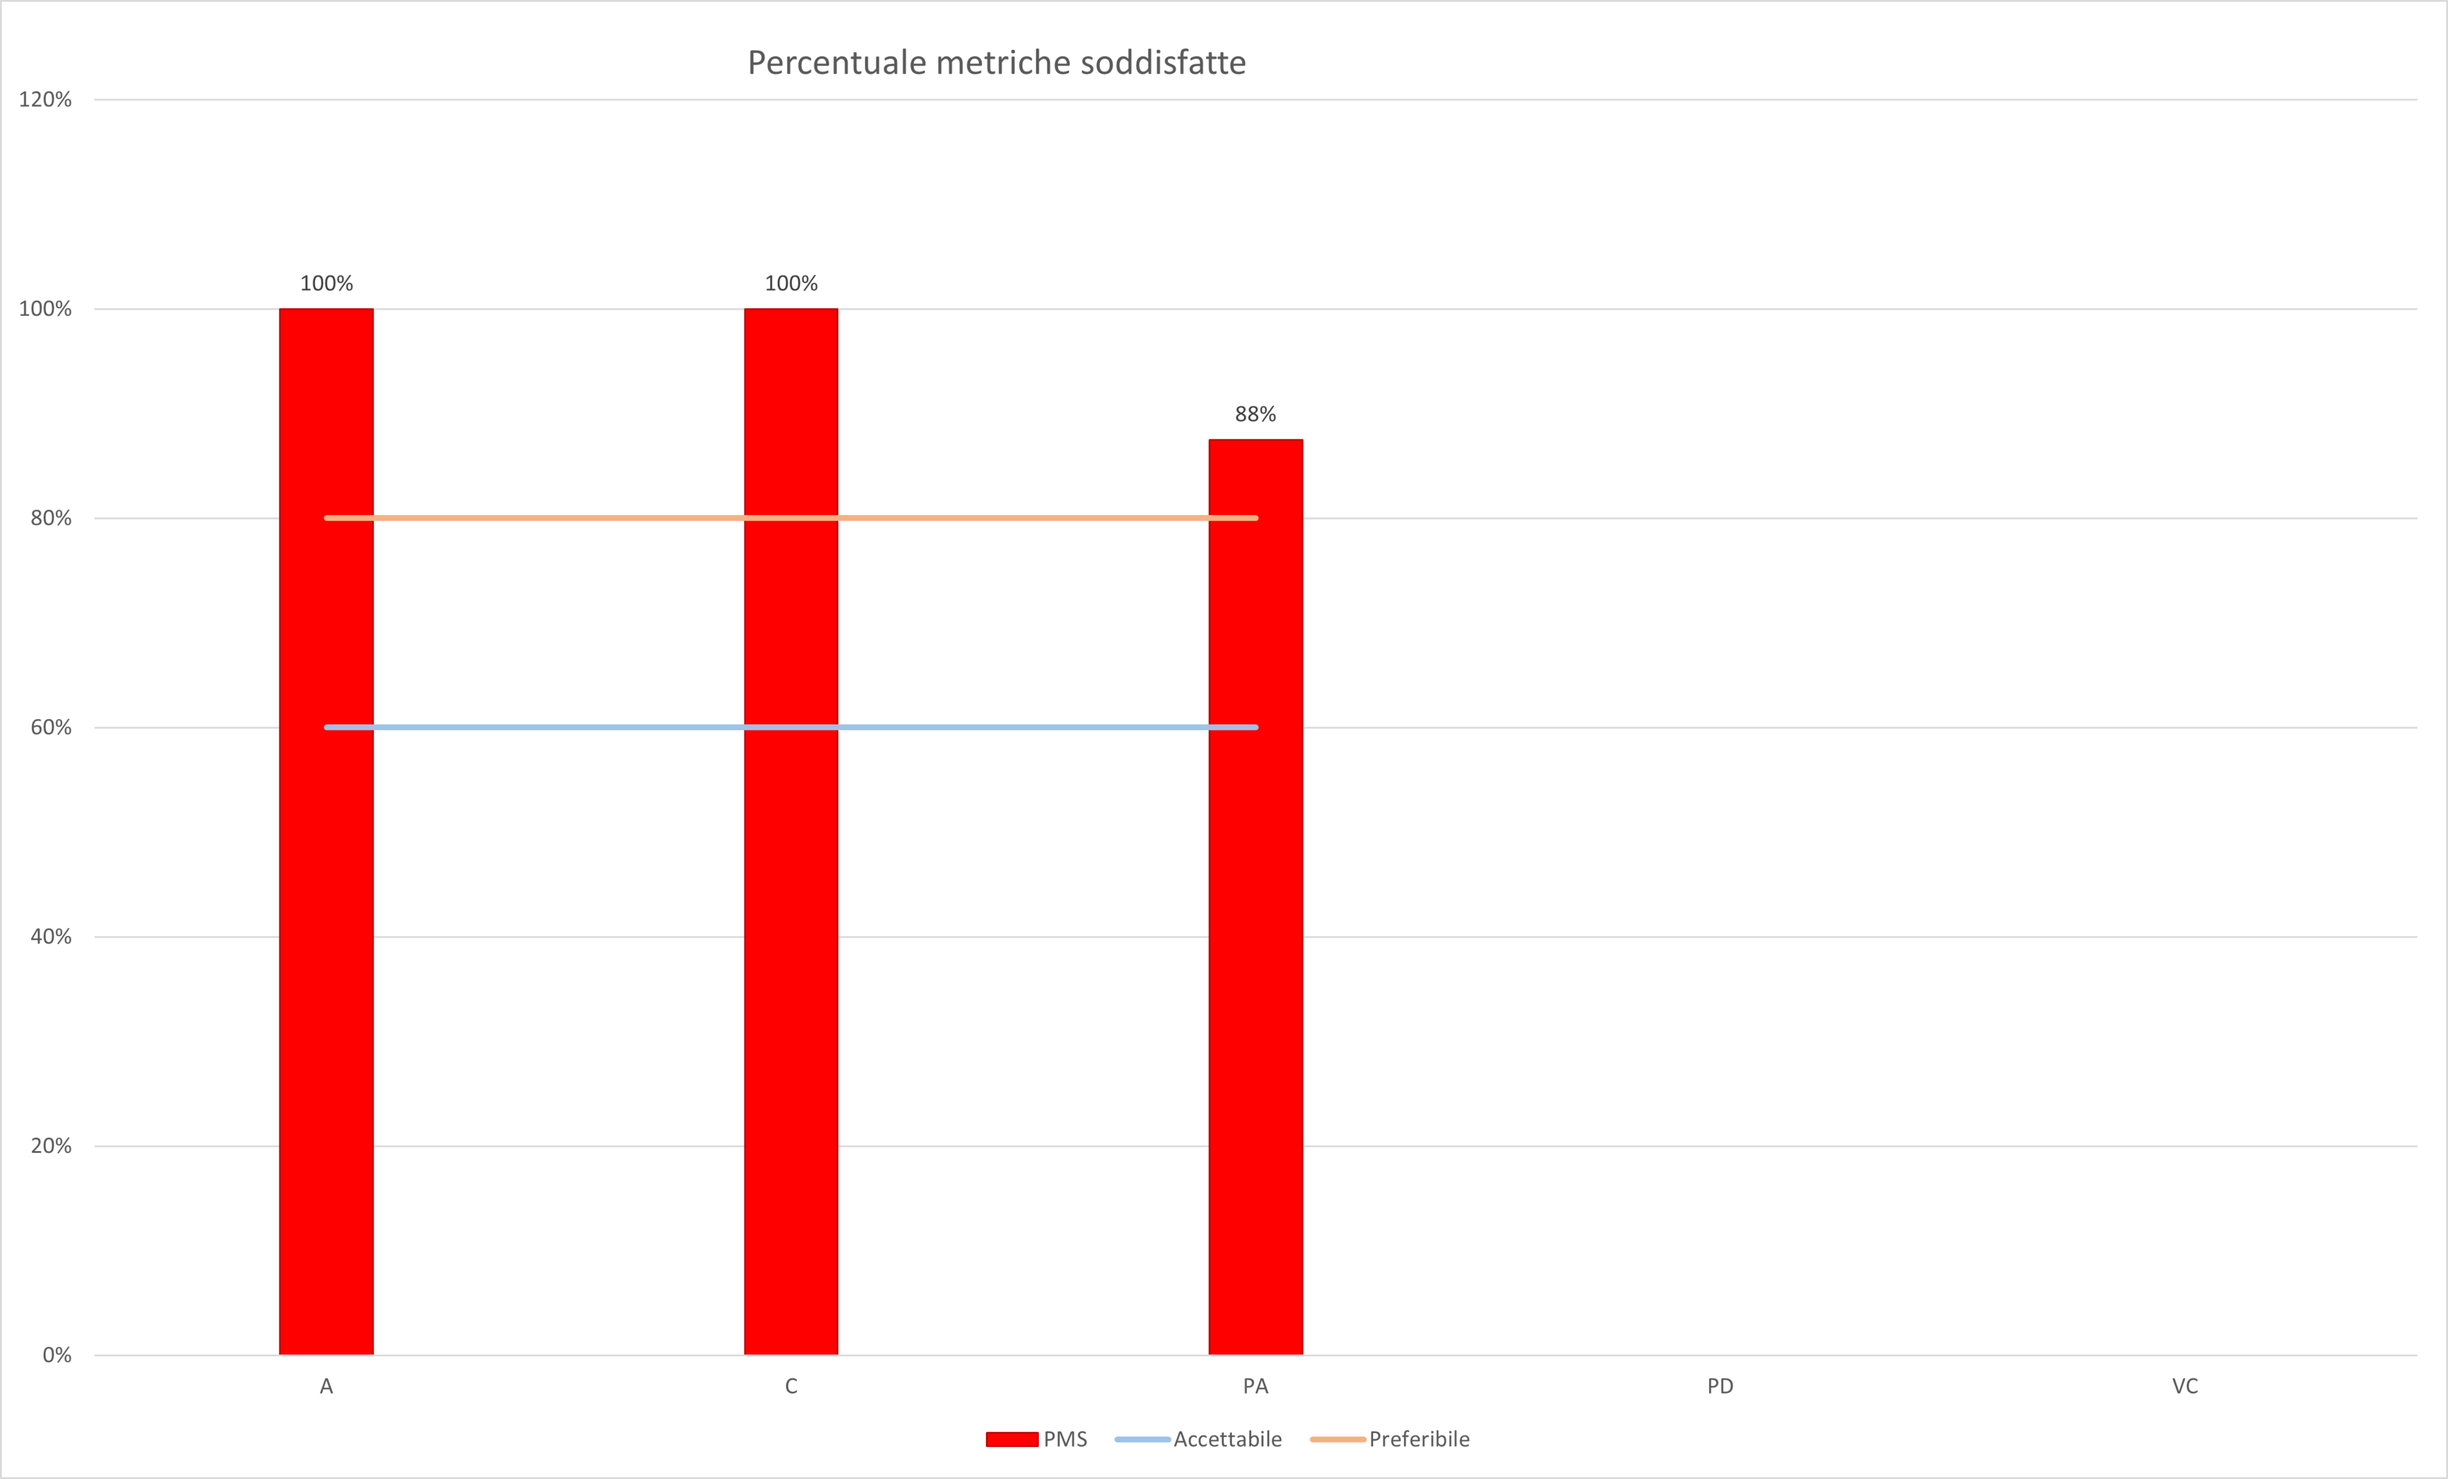
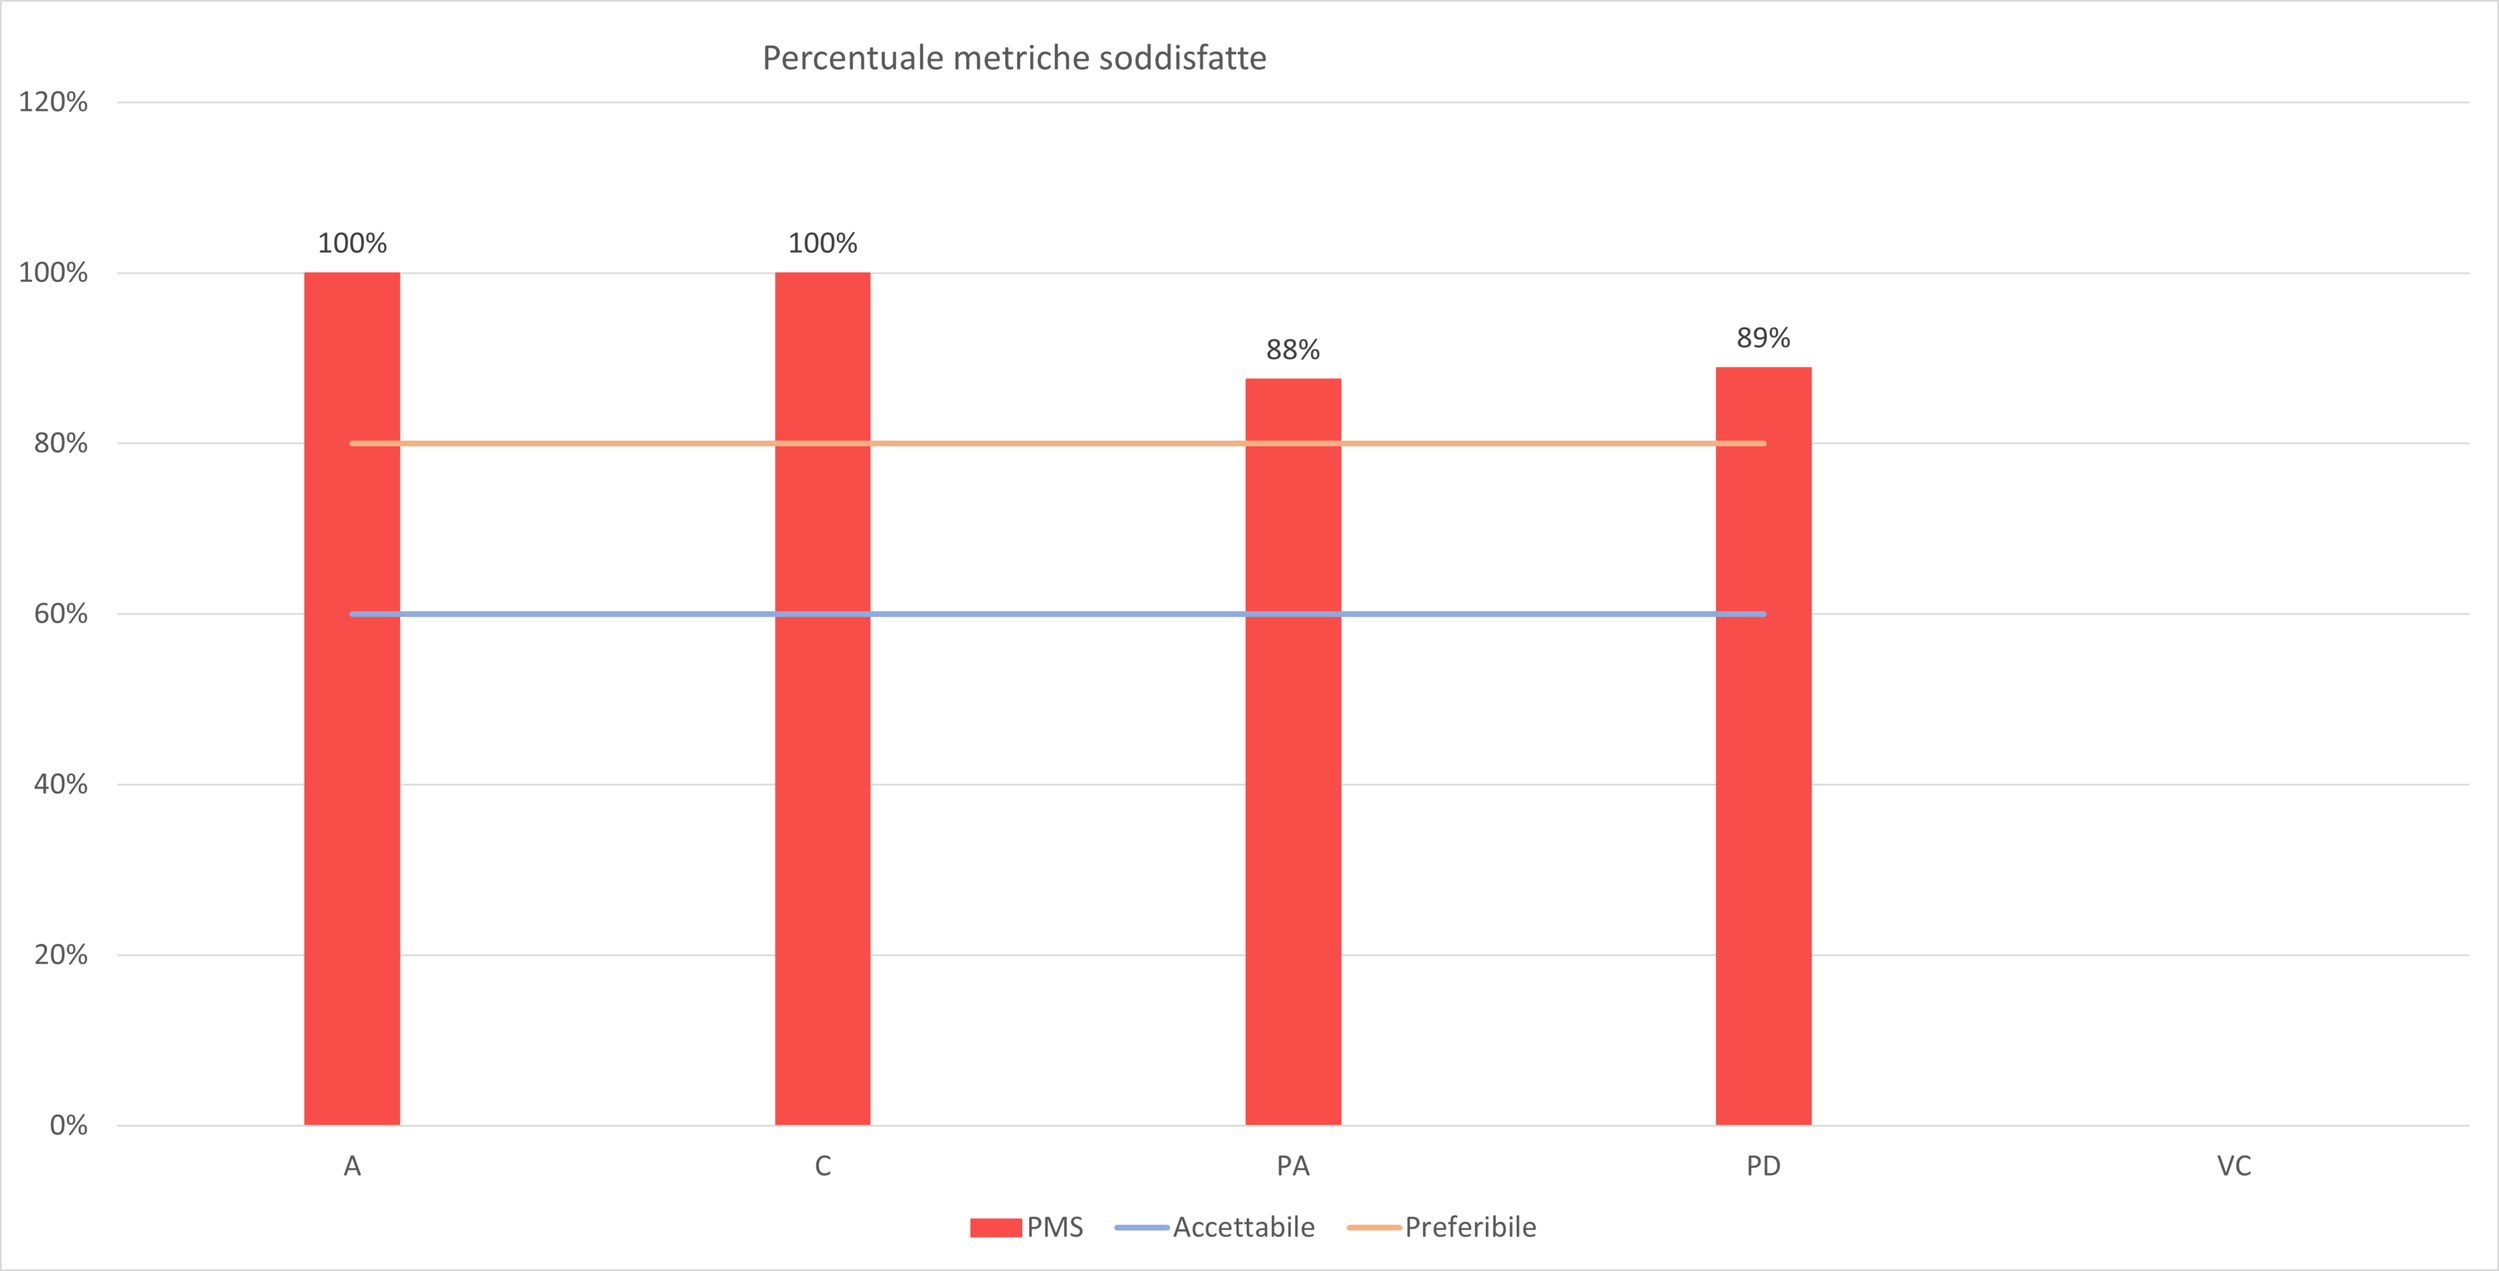
fix

diff --git a/RQ/Documenti Esterni/Piano di Qualifica/sezioni/resocontoAttivitàVerifica.tex b/RQ/Documenti Esterni/Piano di Qualifica/sezioni/resocontoAttivitàVerifica.tex
@@ -40,7 +40,8 @@ I dati riportati nel seguito fanno riferimento a:
     \item \textbf{C:} fase di consolidamento dei requisiti;
     \item \textbf{PA:} fase di progettazione architetturale;
     \item \textbf{PD:} fase di progettazione di dettaglio (da aggiungere con l'avanzare del progetto);
-    \item \textbf{VC:} fase di validazione e collaudo (da aggiungere con l'avanzare del progetto).
+    \item \textbf{VC:} fase di validazione e collaudo (da aggiungere con l'avanzare del progetto);
+    \item \textbf{Incremento:} periodo come definito nel \textit{Piano di Progetto v3.0.0.}
 \end{itemize}
 \newpage
 % \subsubsection{MPR01 - PROS (Percentuale Requisiti Obbligatori Soddisfatti)}
@@ -142,13 +143,13 @@ I dati riportati nel seguito fanno riferimento a:
     \centering
 \end{figure}
 \newpage
-% \subsubsection{MPR06 - CC (Code Coverage)}
-% \begin{figure}[!ht]
-%     \caption{Code Coverage}
-%     \vspace{10px}
-%     \includegraphics[scale=0.5]{sezioni/immagini/CodeCoverage.png}
-%     \centering
-% \end{figure}
+\subsubsection{MPR06 - CC (Code Coverage)}
+\begin{figure}[!ht]
+    \caption{Code Coverage}
+    \vspace{10px}
+    \includegraphics[scale=0.5]{sezioni/immagini/CodeCoverage.png}
+    \centering
+\end{figure}
 \subsubsection{MPR07 - EAC (Estimate at Completion)}
 \begin{figure}[!ht]
     \caption{Estimate at Completion}
@@ -156,6 +157,7 @@ I dati riportati nel seguito fanno riferimento a:
     \includegraphics[scale=0.5]{sezioni/immagini/EstimateAtCompletion.png}
     \centering
 \end{figure}
+\pagebreak
 \subsubsection{MPR08 - VAC (Variance at Completion)}
 \begin{figure}[!ht]
     \caption{Variance at Completion}
@@ -163,7 +165,6 @@ I dati riportati nel seguito fanno riferimento a:
     \includegraphics[scale=0.5]{sezioni/immagini/VarianceAtCompletion.png}
     \centering
 \end{figure}
-\pagebreak
 \subsubsection{MPR09 - AC (Actual Cost)}
 \begin{figure}[!ht]
     \caption{Actual Cost}
@@ -171,6 +172,7 @@ I dati riportati nel seguito fanno riferimento a:
     \includegraphics[scale=0.5]{sezioni/immagini/ActualCost.png}
     \centering
 \end{figure}
+\pagebreak
 \subsubsection{MPR10 - SV (Schedule Variance)}
 \begin{figure}[!ht]
     \caption{Schedule Variance}
@@ -178,7 +180,6 @@ I dati riportati nel seguito fanno riferimento a:
     \includegraphics[scale=0.5]{sezioni/immagini/ScheduleVariance.png}
     \centering
 \end{figure}
-\pagebreak
 \subsubsection{MPR11 - BV (Budget Variance)}
 \begin{figure}[!ht]
     \caption{Budget Variance}
@@ -187,82 +188,86 @@ I dati riportati nel seguito fanno riferimento a:
     \centering
 \end{figure}
 \pagebreak
-% \subsubsection{MPD01 - Completezza dell’implementazione}
-% \begin{figure}[!ht]
-%     \caption{Completezza dell’implementazione}
-%     \vspace{10px}
-%     \includegraphics[scale=0.5]{sezioni/immagini/CompletezzaImplementazione.png}
-%     \centering
-% \end{figure}
-% \subsubsection{MPD02 - Densità errori}
-% \begin{figure}[!ht]
-%     \caption{Densità errori}
-%     \vspace{10px}
-%     \includegraphics[scale=0.5]{sezioni/immagini/DensitàErrori.png}
-%     \centering
-% \end{figure}
-% \pagebreak
-% \subsubsection{MPD03 - Facilità di utilizzo}
-% \begin{figure}[!ht]
-%     \caption{Facilità di utilizzo}
-%     \vspace{10px}
-%     \includegraphics[scale=0.5]{sezioni/immagini/FacilitàUtilizzo.png}
-%     \centering
-% \end{figure}
-% \subsubsection{MPD04 - Facilità di apprendimento}
-% \begin{figure}[!ht]
-%     \caption{Facilità di apprendimento}
-%     \vspace{10px}
-%     \includegraphics[scale=0.5]{sezioni/immagini/FacilitàApprendimento.png}
-%     \centering
-% \end{figure}
-% \pagebreak
-% \subsubsection{MPD05 - Profondità della gerarchia}
-% \begin{figure}[!ht]
-%     \caption{Profondità della gerarchia}
-%     \vspace{10px}
-%     \includegraphics[scale=0.5]{sezioni/immagini/ProfonditàGerarchia.png}
-%     \centering
-% \end{figure}
-% \begin{figure}[!ht]
-%     \caption{Profondità della gerarchia - Utente non autenticato}
-%     \vspace{10px}
-%     \includegraphics[scale=0.5]{sezioni/immagini/ProfonditàGerarchiaUtente.png}
-%     \centering
-% \end{figure}
-% \pagebreak
-% \begin{figure}[!ht]
-%     \caption{Profondità della gerarchia - Cliente}
-%     \vspace{10px}
-%     \includegraphics[scale=0.5]{sezioni/immagini/ProfonditàGerarchiaCliente.png}
-%     \centering
-% \end{figure}
-% \begin{figure}[!ht]
-%     \caption{Profondità della gerarchia - Venditore}
-%     \vspace{10px}
-%     \includegraphics[scale=0.5]{sezioni/immagini/ProfonditàGerarchiaVenditore.png}
-%     \centering
-% \end{figure}
-% \pagebreak
-% \subsubsection{MPD06 - Facilità di comprensione}
-% \begin{figure}[!ht]
-%     \caption{Facilità di comprensione}
-%     \vspace{10px}
-%     \includegraphics[scale=0.5]{sezioni/immagini/FacilitàComprensione.png}
-%     \centering
-% \end{figure}
-% \subsubsection{MPD07 - Semplicità delle funzioni}
-% \begin{figure}[!ht]
-%     \caption{Semplicità delle funzioni}
-%     \vspace{10px}
-%     \includegraphics[scale=0.5]{sezioni/immagini/SemplicitàFunzioni.png}
-%     \centering
-% \end{figure}
-% \pagebreak
-% \subsubsection{MPD08 - Semplicità delle classi}
-% \begin{figure}[!ht]
-%     \caption{Semplicità delle classi}
-%     \vspace{10px}
-%     \includegraphics[scale=0.5]{sezioni/immagini/SemplicitàClassi.png}
-%     \centering
-% \end{figure}
+\subsubsection{MPD01 - Percentuale Test Superati}
+\begin{figure}[!ht]
+    \caption{Percentuale Test Superati}
+    \vspace{10px}
+    \includegraphics[scale=0.5]{sezioni/immagini/PercentualeTestSuperati.png}
+    \centering
+\end{figure}
+\subsubsection{MPD02 - Densità errori}
+\begin{figure}[!ht]
+    \caption{Densità errori}
+    \vspace{10px}
+    \includegraphics[scale=0.5]{sezioni/immagini/DensitàErrori.png}
+    \centering
+\end{figure}
+\pagebreak
+\subsubsection{MPD03 - Facilità di utilizzo}
+Per il calcolo di questa metrica si è tenuto in considerazione il segunte percorso:\\
+Home -> lista dei prodotti -> prodotto -> carrello -> checkout.\\
+Poichè durante i primi due incrementi il numero delle funzionalità offerte erano esigue e l'interfaccia utente era molto più semplice, 
+il numero di click per raggiungere il checkout era minore.
+\begin{figure}[!ht]
+    \caption{Facilità di utilizzo}
+    \vspace{10px}
+    \includegraphics[scale=0.5]{sezioni/immagini/FacilitàUtilizzo.png}
+    \centering
+\end{figure}
+\subsubsection{MPD04 - Facilità di apprendimento}
+\begin{figure}[!ht]
+    \caption{Facilità di apprendimento}
+    \vspace{10px}
+    \includegraphics[scale=0.5]{sezioni/immagini/FacilitàApprendimento.png}
+    \centering
+\end{figure}
+\pagebreak
+\subsubsection{MPD05 - Profondità della gerarchia}
+\begin{figure}[!ht]
+    \caption{Profondità della gerarchia}
+    \vspace{10px}
+    \includegraphics[scale=0.5]{sezioni/immagini/ProfonditàGerarchia.png}
+    \centering
+\end{figure}
+\begin{figure}[!ht]
+    \caption{Profondità della gerarchia - Utente non autenticato}
+    \vspace{10px}
+    \includegraphics[scale=0.5]{sezioni/immagini/ProfonditàGerarchiaUtente.png}
+    \centering
+\end{figure}
+\pagebreak
+\begin{figure}[!ht]
+    \caption{Profondità della gerarchia - Cliente}
+    \vspace{10px}
+    \includegraphics[scale=0.5]{sezioni/immagini/ProfonditàGerarchiaCliente.png}
+    \centering
+\end{figure}
+\begin{figure}[!ht]
+    \caption{Profondità della gerarchia - Venditore}
+    \vspace{10px}
+    \includegraphics[scale=0.5]{sezioni/immagini/ProfonditàGerarchiaVenditore.png}
+    \centering
+\end{figure}
+\pagebreak
+\subsubsection{MPD06 - Facilità di comprensione}
+\begin{figure}[!ht]
+    \caption{Facilità di comprensione}
+    \vspace{10px}
+    \includegraphics[scale=0.5]{sezioni/immagini/FacilitàComprensione.png}
+    \centering
+\end{figure}
+\subsubsection{MPD07 - Semplicità delle funzioni}
+\begin{figure}[!ht]
+    \caption{Semplicità delle funzioni}
+    \vspace{10px}
+    \includegraphics[scale=0.5]{sezioni/immagini/SemplicitàFunzioni.png}
+    \centering
+\end{figure}
+\pagebreak
+\subsubsection{MPD08 - Semplicità delle classi}
+\begin{figure}[!ht]
+    \caption{Semplicità delle classi}
+    \vspace{10px}
+    \includegraphics[scale=0.5]{sezioni/immagini/SemplicitàClassi.png}
+    \centering
+\end{figure}

diff --git a/RQ/Documenti Esterni/Piano di Qualifica/sezioni/qualitàProdotto.tex b/RQ/Documenti Esterni/Piano di Qualifica/sezioni/qualitàProdotto.tex
@@ -13,12 +13,12 @@ nell'\textit{Analisi dei Requisiti v3.0.0.}
     \item \textbf{Conformità:} il prodotto deve aderire agli standard scelti dal gruppo.
 \end{itemize}
 \subsubsection{Metriche}
-\textbf{MPD01 - Completezza dell'implementazione:}
+\textbf{MPD01 - Percentuale Test Superati:}
 \begin{itemize}
     \item \textbf{Codice:} MPD01;
     \item \textbf{Descrizione:} vedi \textit{Norme di Progetto v3.0.0} sezione \S A.4.1.1;
     \item \textbf{Valore preferibile:} 100\%;
-    \item \textbf{Valore accettabile:} 100\%.
+    \item \textbf{Valore accettabile:} $\geq$ 80\%.
 \end{itemize}
 \subsection{Affidabilità}
 È la capacità del prodotto software di mantenere il livello di prestazioni
